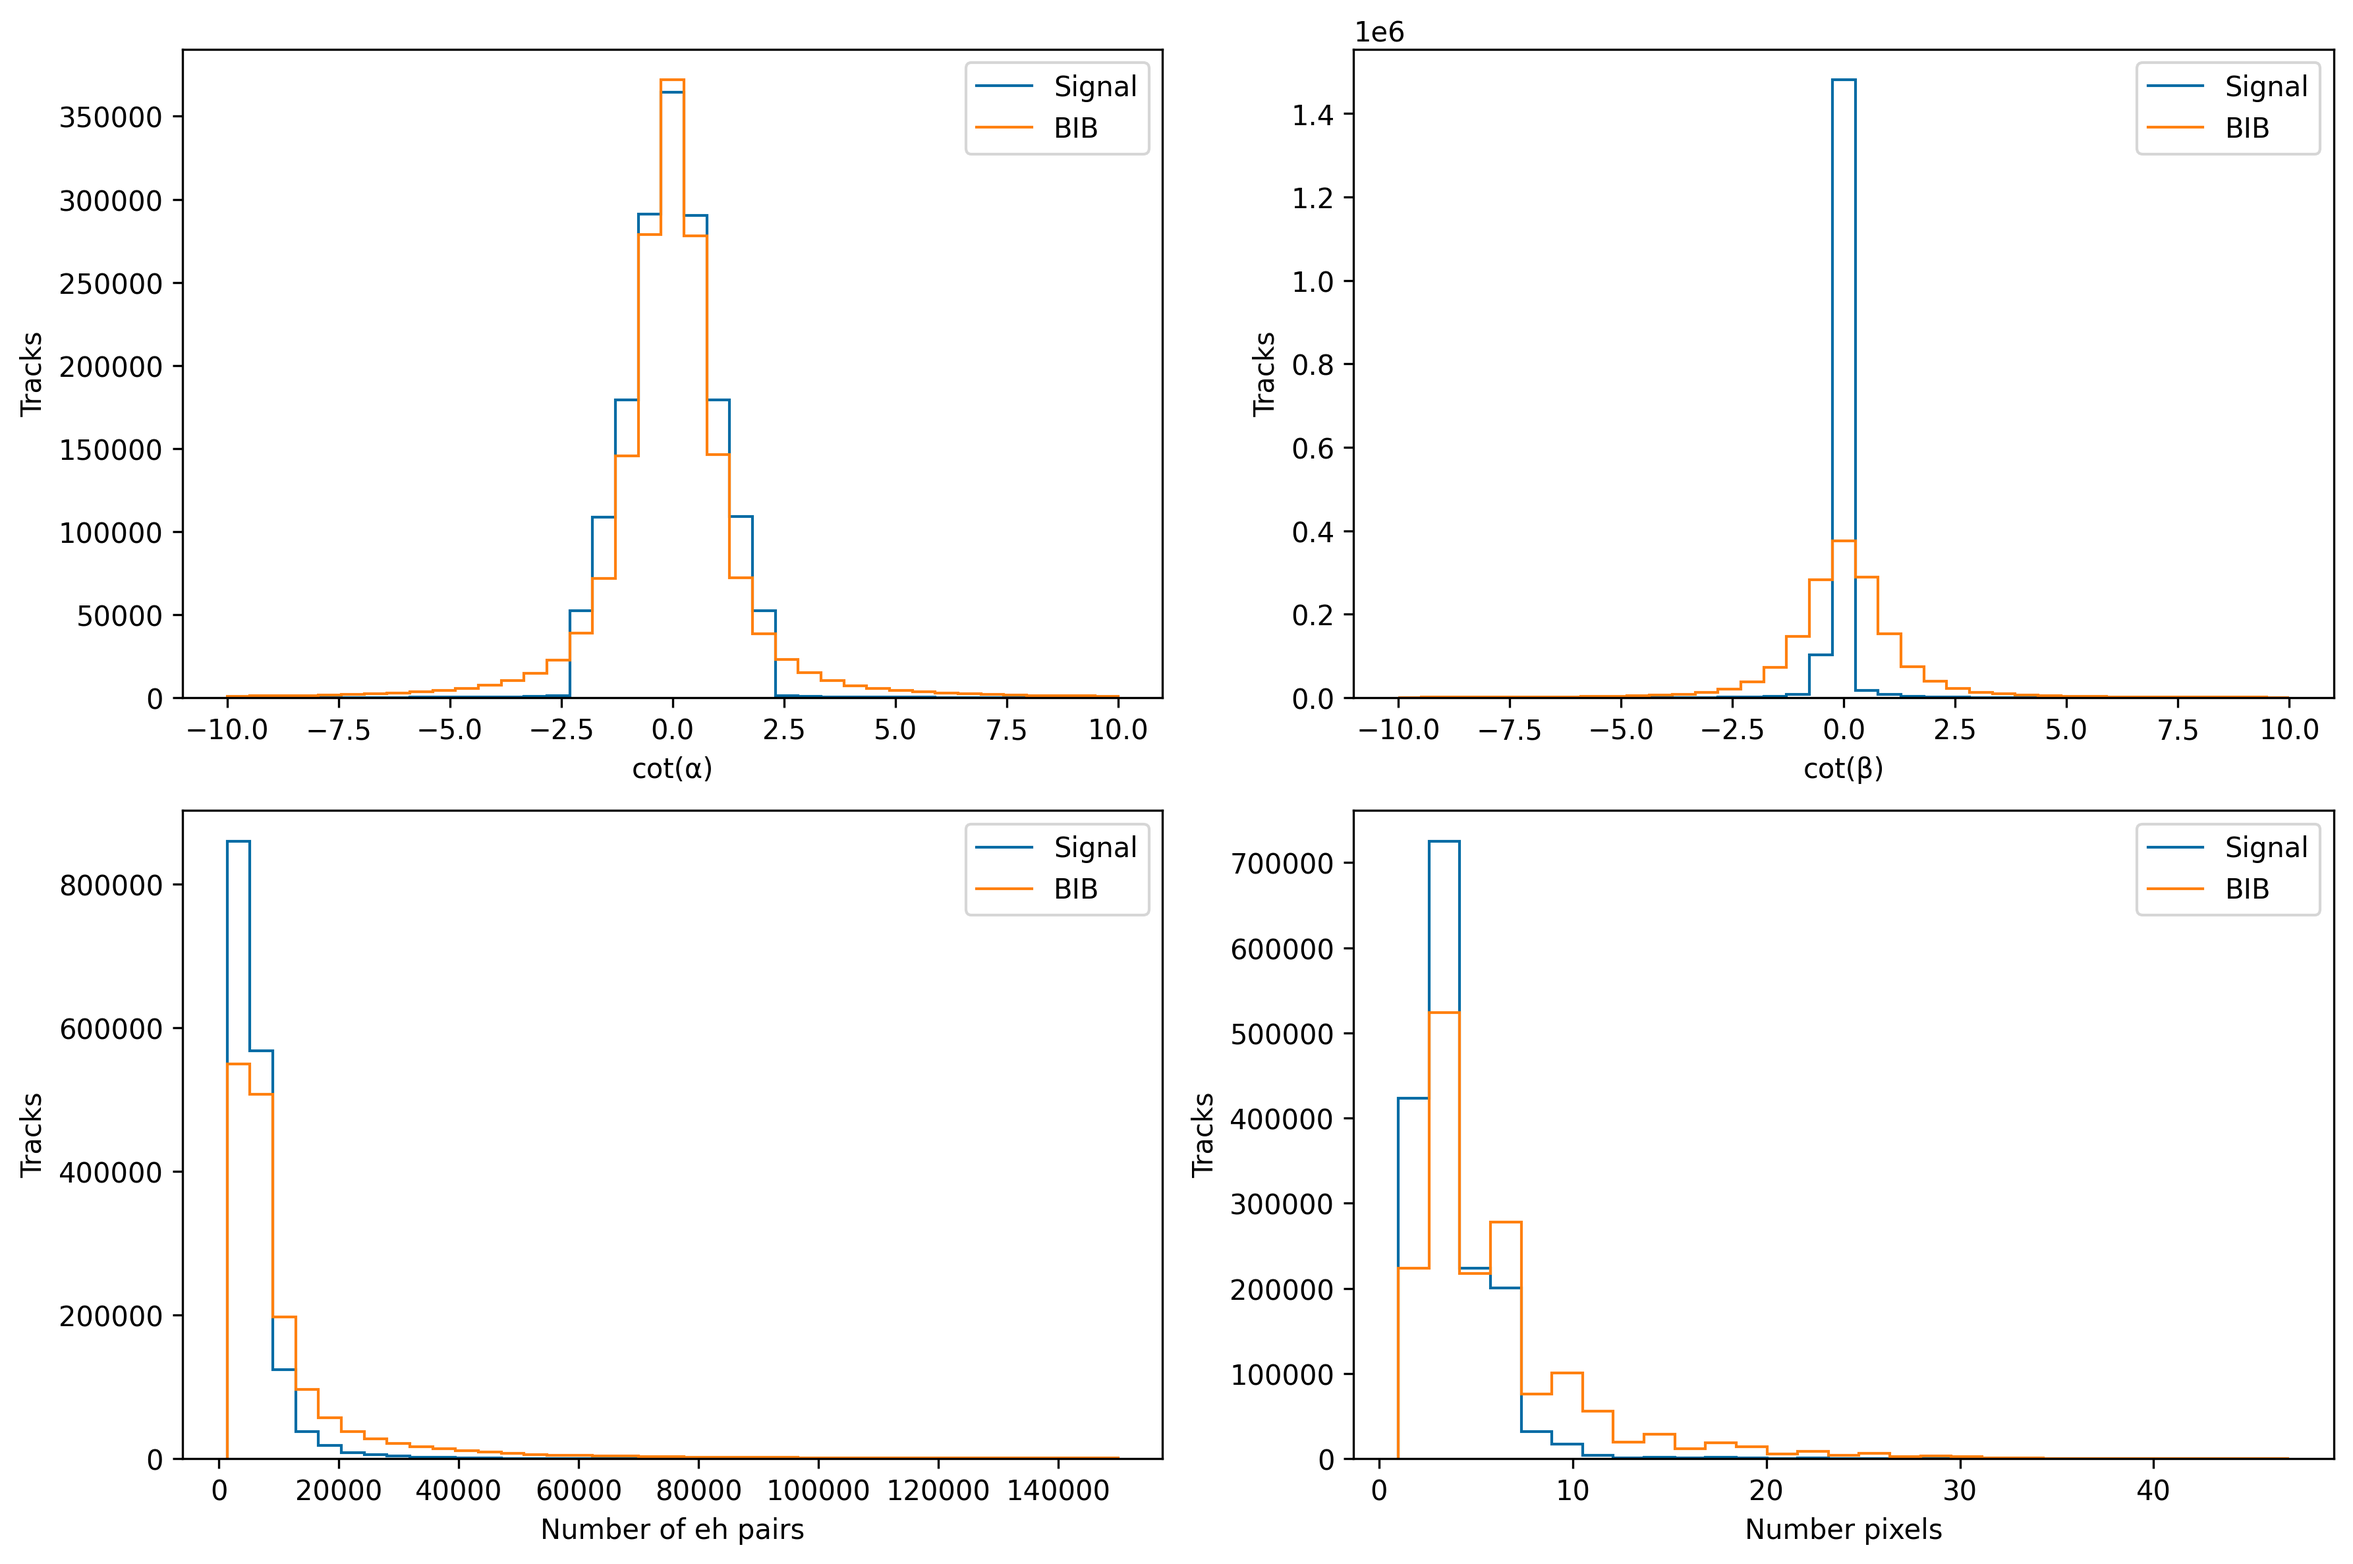
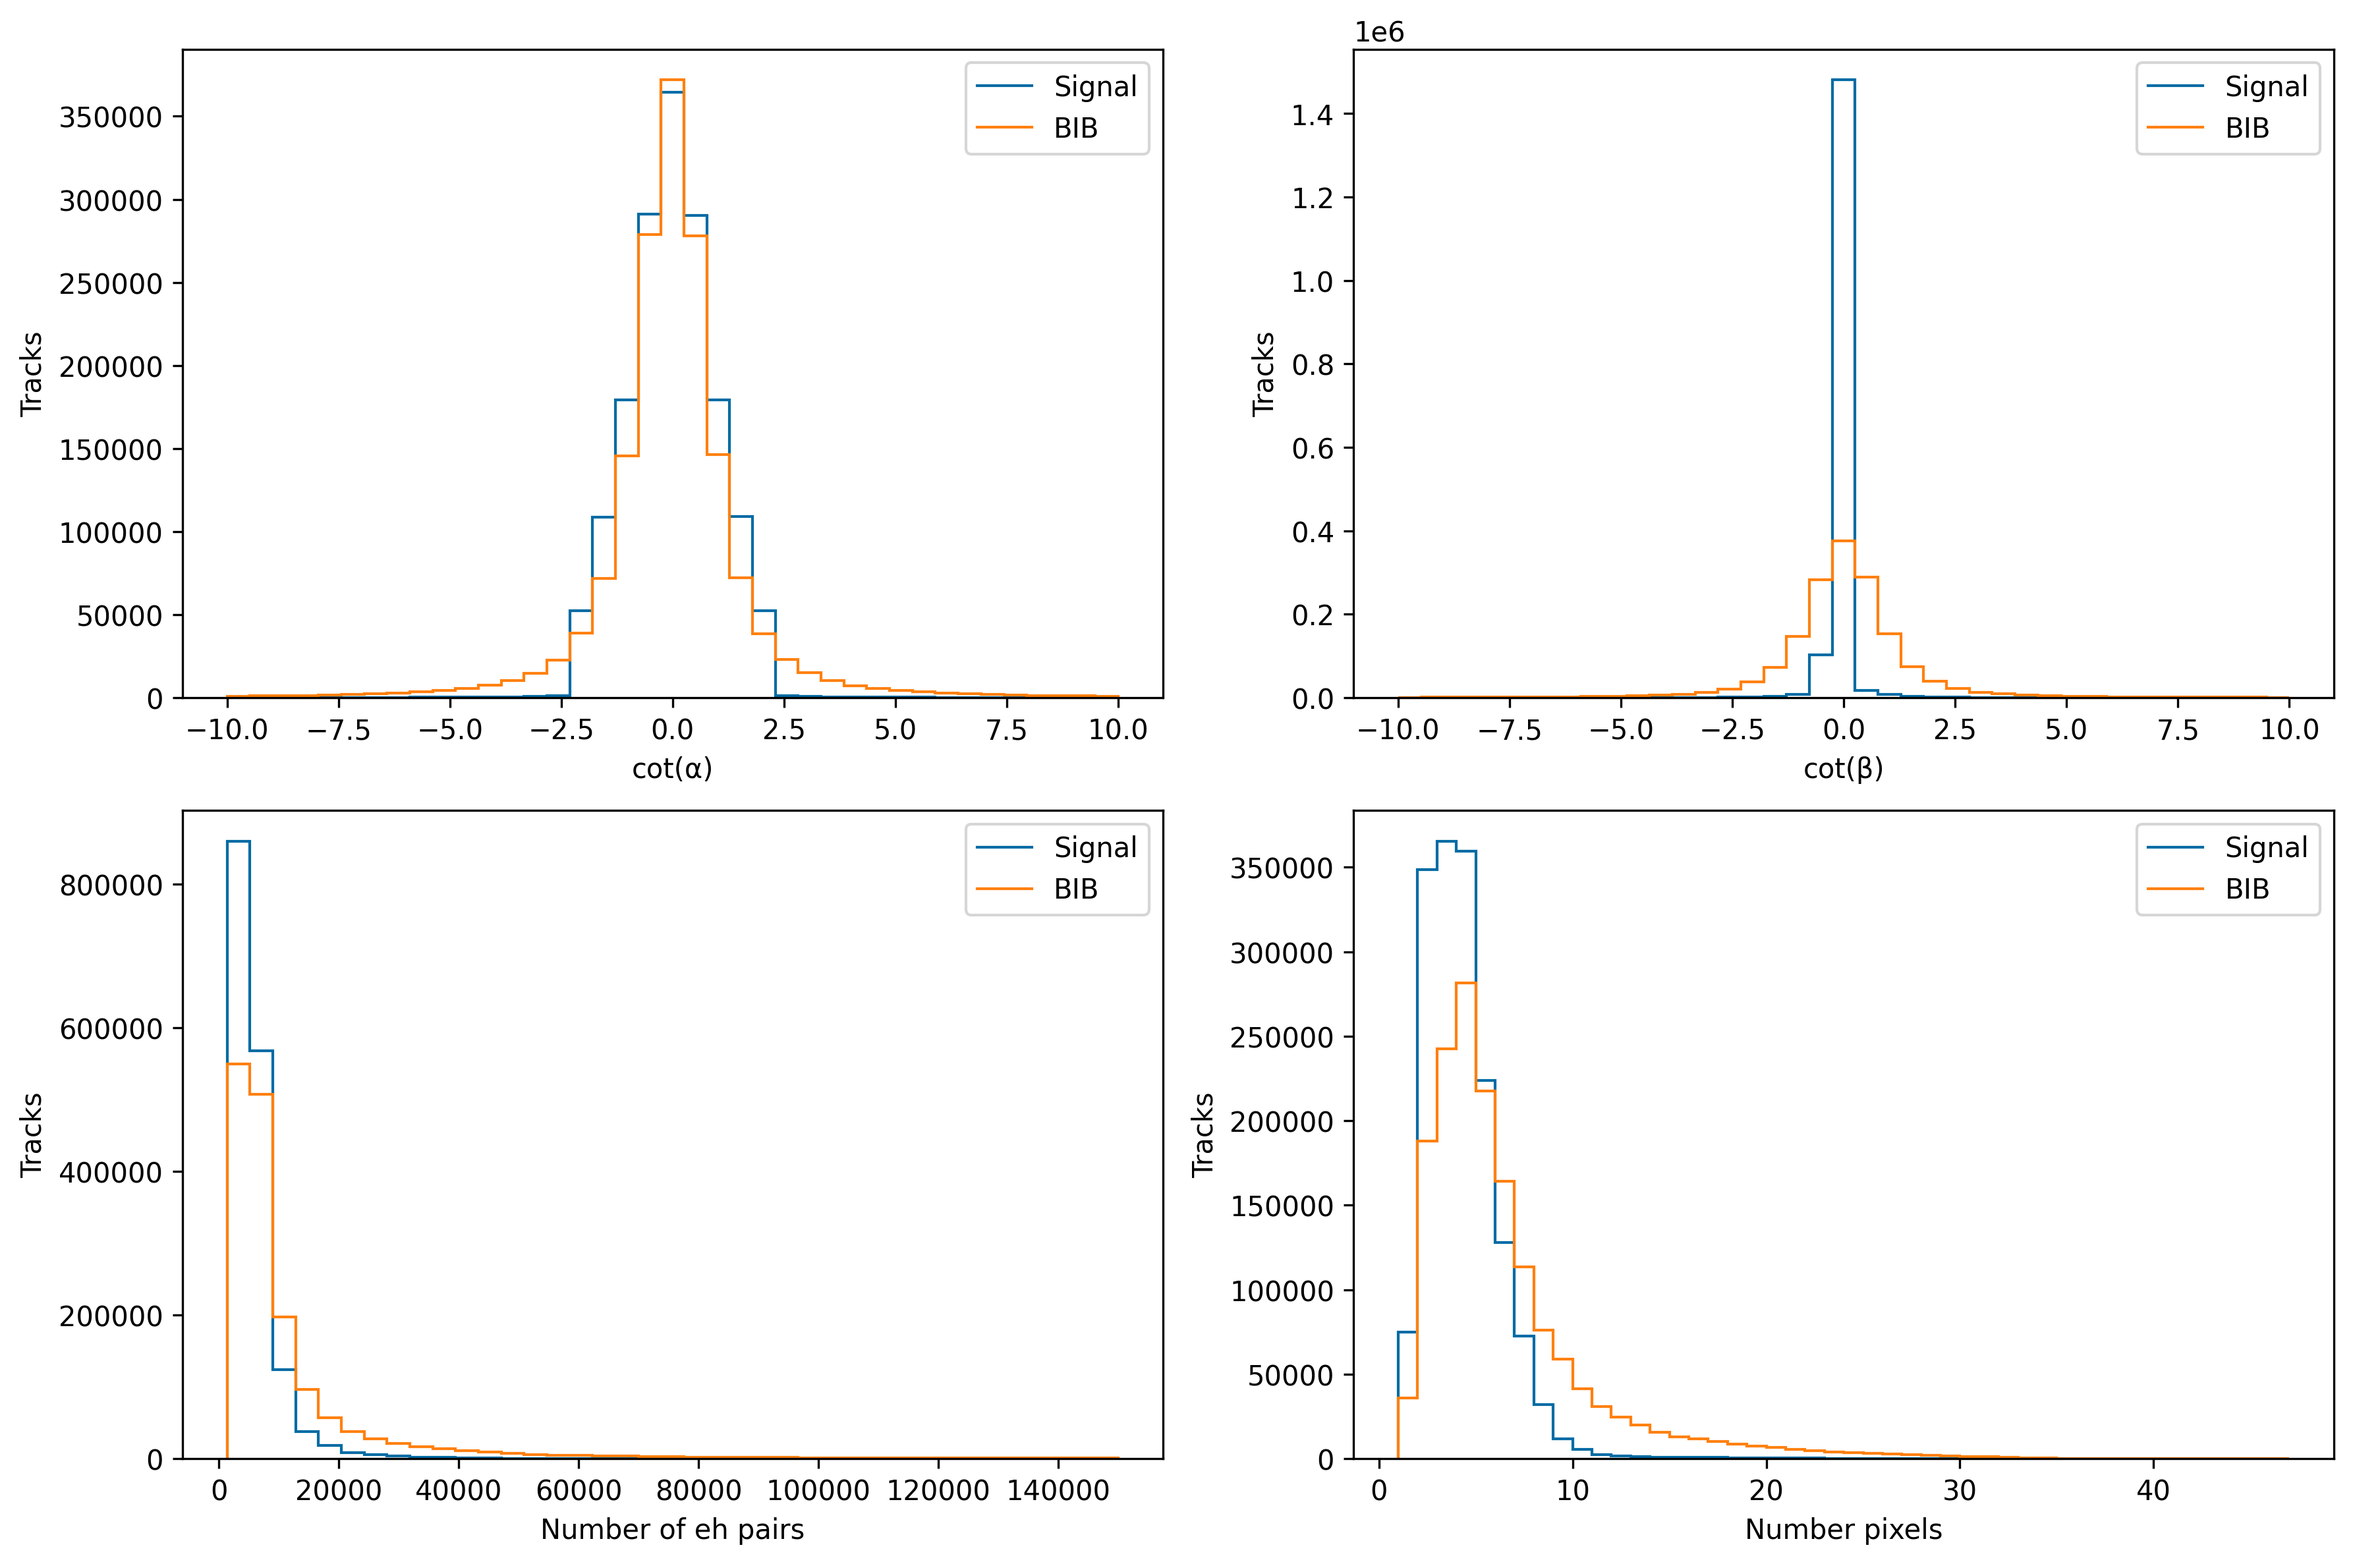
Small change to integer nPix binning

diff --git a/daniel/validationPlots/plotUtils.py b/daniel/validationPlots/plotUtils.py
@@ -682,7 +682,7 @@ def plotEricVarsHistos(truthbib, truthsig,nPixelsSig,nPixelsBib,PLOT_DIR="./plot
     # ax[0,1].set_xlim(0, 120000)
     # nPixels: number of nonzero pixels in each cluster
     plt.subplot(224)
-    plotHistoBibSig(truthbib,truthsig,"nPix",pltStandalone=False,bins=30,xlabel="Number pixels",title="")
+    plotHistoBibSig(truthbib,truthsig,"nPix",pltStandalone=False,bins=47,xlabel="Number pixels",title="")
 
     closePlot(PLOT_DIR, interactivePlots, "signal_bib_summary_histograms.png")
 
